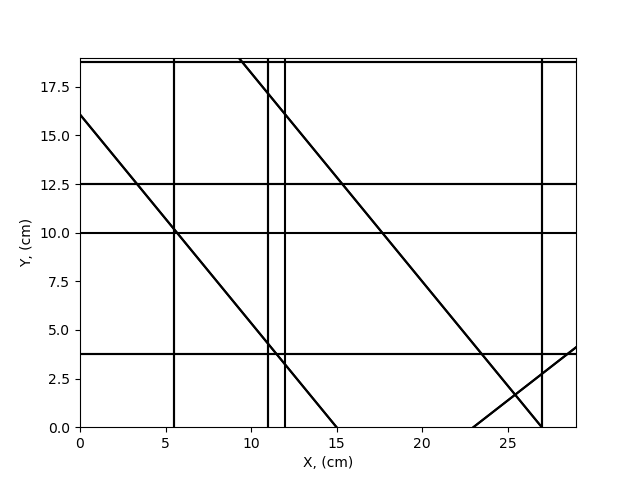
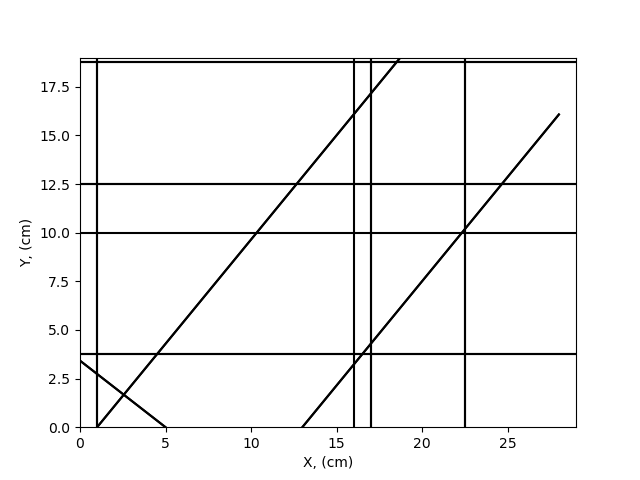
gespiegeld

diff --git a/Deeltjesverval.py/Metingenverwerking.py b/Deeltjesverval.py/Metingenverwerking.py
@@ -118,10 +118,10 @@ yht = []
 xhterr = []
 yhterr = []
 for waarde in np.arange(0, 19.5, 0.5):
-    xht_1.append(5.5)
-    xht_2.append(11.0)
-    xht_3.append(12.0)
-    xht_4.append(27.0)
+    xht_1.append(28 - 5.5)
+    xht_2.append(28 - 11.0)
+    xht_3.append(28 - 12.0)
+    xht_4.append(28 - 27.0)
     yht.append(waarde)
     xhterr.append(0.3)
     yhterr.append(1.25)
@@ -131,7 +131,7 @@ x30err = []
 y30 = []
 y30err = []
 for waarde in np.arange(23, 29.5, 0.5):
-    x30.append(waarde)
+    x30.append(28 - waarde)
     x30err.append(0.5)
     y30.append(np.tan(0.6) * (waarde - 23))
     y30err.append(1.25)
@@ -141,7 +141,7 @@ x50_1err = []
 y50_1 = []
 y50_1err = []
 for waarde in np.arange(0, 15.5, 0.5):
-    x50_1.append(waarde)
+    x50_1.append(28 - waarde)
     x50_1err.append(0.5)
     y50_1.append(np.tan(0.82) * (15 - waarde))
     y50_1err.append(1.25)
@@ -151,7 +151,7 @@ x50_2err = []
 y50_2 = []
 y50_2err = []
 for waarde in np.arange(0, 27.5, 0.5):
-    x50_2.append(waarde)
+    x50_2.append(28 - waarde)
     x50_2err.append(0.5)
     y50_2.append(np.tan(0.82) * (27 - waarde))
     y50_2err.append(1.25)
@@ -206,7 +206,7 @@ plt.xlim(0, 29)
 plt.xlabel("X, (cm)")
 plt.ylim(0, 19)
 plt.ylabel("Y, (cm)")
-plt.savefig("patient.png")
+plt.savefig("patient_1.png")
 
 plt.plot(
     xht_1,
